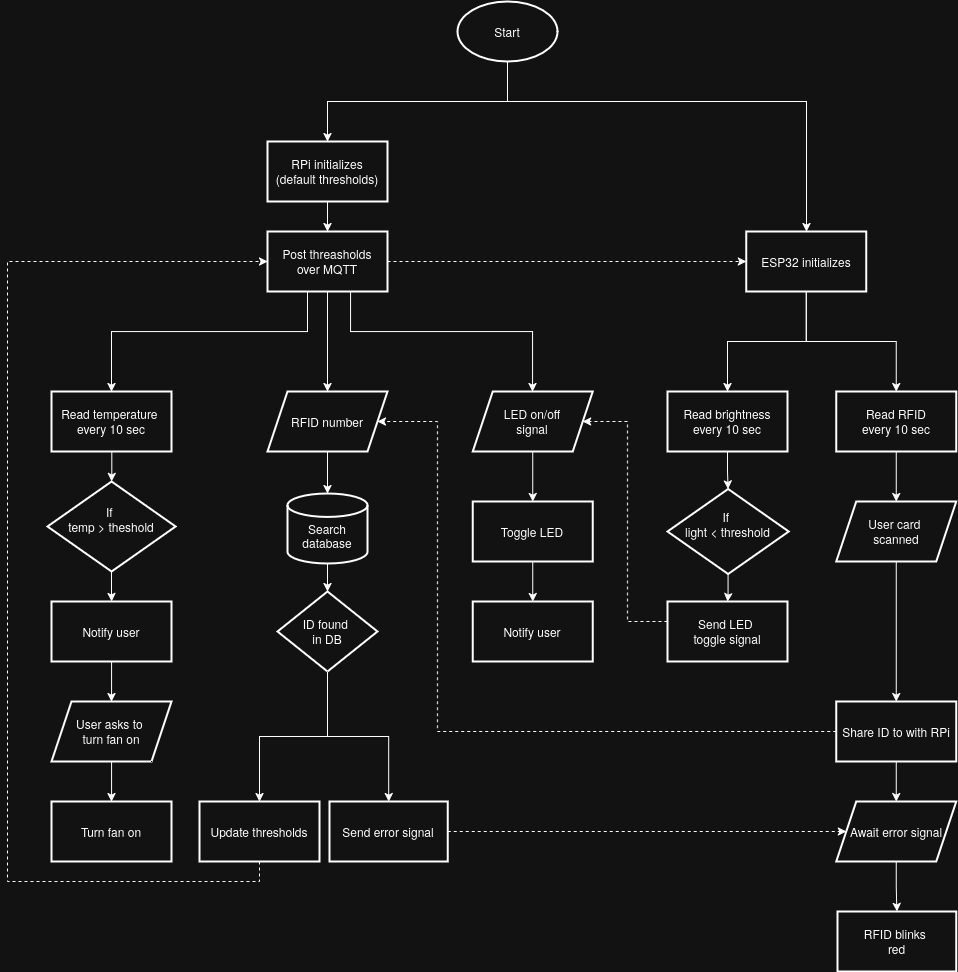
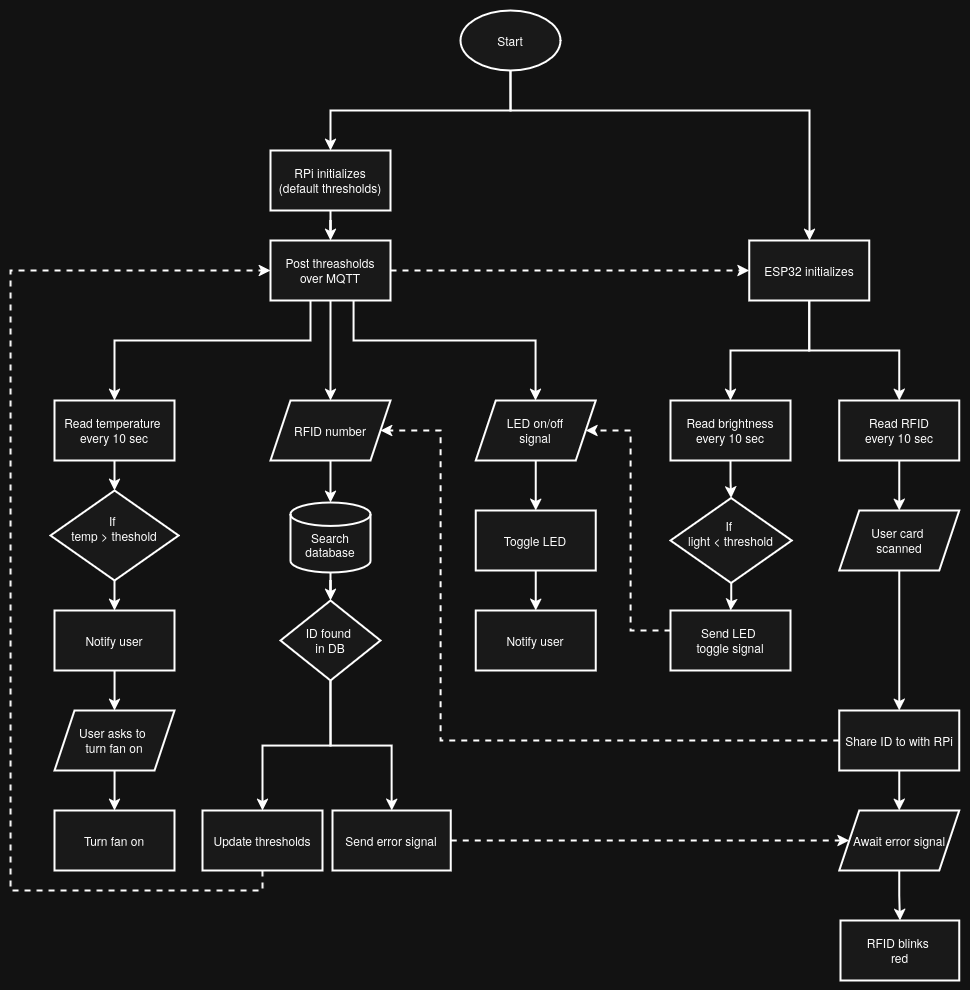
Done with iot flowchart

diff --git a/src/components/ProjectPageComponents.jsx b/src/components/ProjectPageComponents.jsx
@@ -11,7 +11,7 @@ function TechStackInline({ items = [] }) {
 function TextSection({ title, paragraphs = [], children, className = "" }) {
     return (
         <section className={className}>
-            {title ? <h2>{title}</h2> : null }
+            {title ? <h2>{title}</h2> : null}
             <div>
                 {paragraphs.map((text, i) => (
                     <p key={i}>{text}</p>
@@ -42,13 +42,38 @@ function SoftList({ items }) {
     )
 }
 
-function CaptionedImage({ title = '', image = '', alt = '', caption = '' }) {
+// function CaptionedImage({ title = '', image = '', alt = '', caption = '', customWidth }) {
+//     const customStyle = { maxWidth: customWidth }
+//     return <div className=''>
+//         <div className='flex flex-col flex-center captioned-image'>
+//             {customWidth ?
+//                 <img
+//                     src={image}
+//                     alt={alt}
+//                     className='image'
+//                     style={customStyle}
+//                 />
+//                 :
+//                 <img
+//                     src={image}
+//                     alt={alt}
+//                     className='image'
+//                 />
+//             }
+//             <h5>{caption}</h5>
+//         </div>
+//     </div>
+// }
+
+function CaptionedImage({image = '', alt = '', caption = '', customWidth }) {
     return <div className=''>
         <div className='flex flex-col flex-center captioned-image'>
             <img
                 src={image}
                 alt={alt}
-                className='image' />
+                className='image'
+                style={customWidth ? { maxWidth: customWidth } : undefined}
+            />
             <h5>{caption}</h5>
         </div>
     </div>
@@ -56,8 +81,8 @@ function CaptionedImage({ title = '', image = '', alt = '', caption = '' }) {
 
 function BulletList({ title, items = [] }) {
     return <div>
-       
-        {title ? <h3>{title}</h3> : null }
+
+        {title ? <h3>{title}</h3> : null}
         <ul>
             {items.map((item, index) => (
                 <li key={index}>{item}</li>

diff --git a/src/components/IoTProject.jsx b/src/components/IoTProject.jsx
@@ -1,6 +1,6 @@
 import iotSetup1 from '../assets/iotDiagram1.png'
 import iotSetup2 from '../assets/iotDiagram2.png'
-import iotFlowchart from '../assets/iot-fc-w.png'
+import iotFlowchart from '../assets/iot-fc-b.png'
 import { FaMicrochip, FaLightbulb, FaFan, FaIdCard } from 'react-icons/fa'
 import { MdSensors, MdMemory } from 'react-icons/md'
 import { BsCpu } from 'react-icons/bs'
@@ -116,8 +116,9 @@ function IoTProjectPage() {
             children={
               <CaptionedImage 
                 image={iotFlowchart}
+                customWidth="85%"
                 alt="Smart home simulation flowchart"
-                caption='Flowchart showing the algorith and communication between Raspberry Pi and ESP32'
+                caption='Flowchart illustrating the algorith and the communication between Raspberry Pi and ESP32. (Dotted lines represent wireless communication.'
               />
             }
           />
